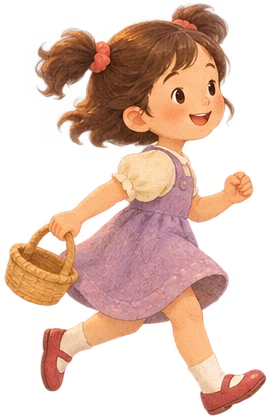
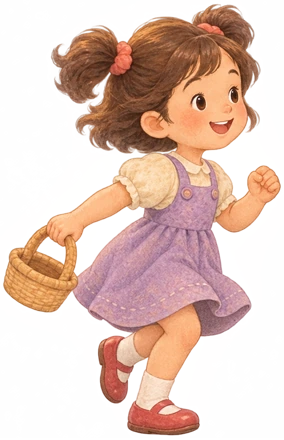
Slow the girl and animate a clear running stride for both controls

diff --git a/game.js b/game.js
@@ -2,6 +2,8 @@ import { flowerImages, flowerTypes, logoFlower } from "./flower-art.js";
 import { Hedgehog, groundLayer } from "./hedgehog.js?v=5";
 
 const ROUND_SECONDS = 120;
+const RUN_POSES = ["run-1", "run-2", "run-3", "run-2"];
+const RUN_FRAME_SECONDS = .09;
 const rounds = [
   {
     task: "Собери 5 синих цветов",
@@ -124,6 +126,7 @@ let deliveryPending = false;
 let activeMove = null;
 let motionFrame = 0;
 let lastFrameTime = 0;
+let strideTime = 0;
 let startledUntil = 0;
 let collisionGraceUntil = 0;
 const moves = [];
@@ -242,13 +245,16 @@ function measureMeadow() {
   };
 }
 
-function renderPlayer(running = false, now = 0) {
+function renderPlayer(running = false, elapsed = 0) {
   girl.style.setProperty("--girl-x", `${player.x}%`);
   girl.style.setProperty("--girl-y", `${player.y}%`);
   girl.style.setProperty("--facing", player.direction);
   const showStride = running && !reducedMotion.matches;
-  girl.style.setProperty("--hop", showStride ? `${-Math.abs(Math.sin(now / 75)) * 5}px` : "0px");
-  const pose = showStride ? `run-${1 + Math.floor(now / 105) % 2}` : "stand";
+  const cycle = RUN_POSES.length * RUN_FRAME_SECONDS;
+  strideTime = showStride ? (strideTime + elapsed) % cycle : 0;
+  const pose = showStride ? RUN_POSES[Math.floor(strideTime / RUN_FRAME_SECONDS)] : "stand";
+  const hop = showStride ? -Math.abs(Math.cos(strideTime / cycle * 2 * Math.PI)) * 3.5 : 0;
+  girl.style.setProperty("--hop", `${hop}px`);
   if (girl.dataset.pose !== pose) girl.dataset.pose = pose;
 }
 
@@ -541,7 +547,9 @@ function moveBy(dx, dy) {
     player.x + dx / meadowSize.width * 100,
     player.y + dy / meadowSize.height * 100,
   );
+  const moved = target.x !== player.x || target.y !== player.y;
   Object.assign(player, target);
+  return moved;
 }
 
 function moveDestination(move) {
@@ -555,8 +563,7 @@ function followMove(move, step) {
   const delta = pixelsBetween(player, destination);
   const distance = Math.hypot(delta.x, delta.y);
   if (distance > step) {
-    moveBy(delta.x * step / distance, delta.y * step / distance);
-    return true;
+    return moveBy(delta.x * step / distance, delta.y * step / distance);
   }
   if (Math.abs(delta.x) > 1) player.direction = Math.sign(delta.x);
   Object.assign(player, destination);
@@ -573,8 +580,7 @@ function followKeys(step) {
   }
   const magnitude = Math.hypot(dx, dy);
   if (!magnitude) return false;
-  moveBy(dx * step / magnitude, dy * step / magnitude);
-  return true;
+  return moveBy(dx * step / magnitude, dy * step / magnitude);
 }
 
 function movePlayer(now) {
@@ -582,7 +588,7 @@ function movePlayer(now) {
   if (!checkTime(now)) return;
   const elapsed = lastFrameTime ? Math.min(now - lastFrameTime, 40) / 1000 : 1 / 60;
   lastFrameTime = now;
-  const speed = Math.max(395, meadowSize.width * .9) * .9;
+  const speed = Math.max(395, meadowSize.width * .9) * .72;
   const hedgehogBefore = hedgehog.position;
   if (hedgehog.pace) hedgehog.advance(elapsed, meadowSize);
   if (startledUntil && now >= startledUntil) clearReaction();
@@ -601,7 +607,7 @@ function movePlayer(now) {
       if (move.kind === "deliver") deliver();
     }
   }
-  renderPlayer(running, now);
+  renderPlayer(running, elapsed);
 
   if (phase === "playing" && (hedgehog.pace || activeMove || moves.length || keysHeld.size)) {
     requestMotion();

diff --git a/index.html b/index.html
@@ -7,8 +7,8 @@
     <meta name="description" content="Цветочная полянка — игра на счёт и цвета. Собери букет и подари его маме!">
     <title>Цветочная полянка</title>
     <link rel="icon" href="data:,">
-    <link rel="stylesheet" href="./styles.css?v=5">
-    <script type="module" src="./game.js?v=7"></script>
+    <link rel="stylesheet" href="./styles.css?v=6">
+    <script type="module" src="./game.js?v=8"></script>
   </head>
   <body>
     <header class="page-header">
@@ -73,7 +73,8 @@
           <div class="girl-poses">
             <img src="./assets/characters/girl.webp" alt="" class="girl-stand" draggable="false">
             <img src="./assets/characters/run-1.webp" alt="" class="girl-run-one" draggable="false">
-            <img src="./assets/characters/run-2.webp" alt="" class="girl-run-two" draggable="false">
+            <img src="./assets/characters/run-2.webp?v=2" alt="" class="girl-run-two" draggable="false">
+            <img src="./assets/characters/run-3.webp" alt="" class="girl-run-three" draggable="false">
             <span class="carried-flowers" id="carried-flowers"></span>
           </div>
           <span class="girl-exclamation">Ой-й-й!</span>

diff --git a/styles.css b/styles.css
@@ -636,7 +636,8 @@ h1 {
 .girl-poses > img { visibility: hidden; }
 .girl[data-pose="stand"] .girl-stand,
 .girl[data-pose="run-1"] .girl-run-one,
-.girl[data-pose="run-2"] .girl-run-two { visibility: visible; }
+.girl[data-pose="run-2"] .girl-run-two,
+.girl[data-pose="run-3"] .girl-run-three { visibility: visible; }
 
 .carried-flowers {
   position: absolute;
@@ -648,7 +649,8 @@ h1 {
 }
 
 .girl[data-pose="run-1"] .carried-flowers { top: 61%; left: 16%; }
-.girl[data-pose="run-2"] .carried-flowers { top: 63%; left: 17%; }
+.girl[data-pose="run-2"] .carried-flowers { top: 63%; left: 14%; }
+.girl[data-pose="run-3"] .carried-flowers { top: 64%; left: 12%; }
 
 .carried-flowers img {
   position: absolute;
